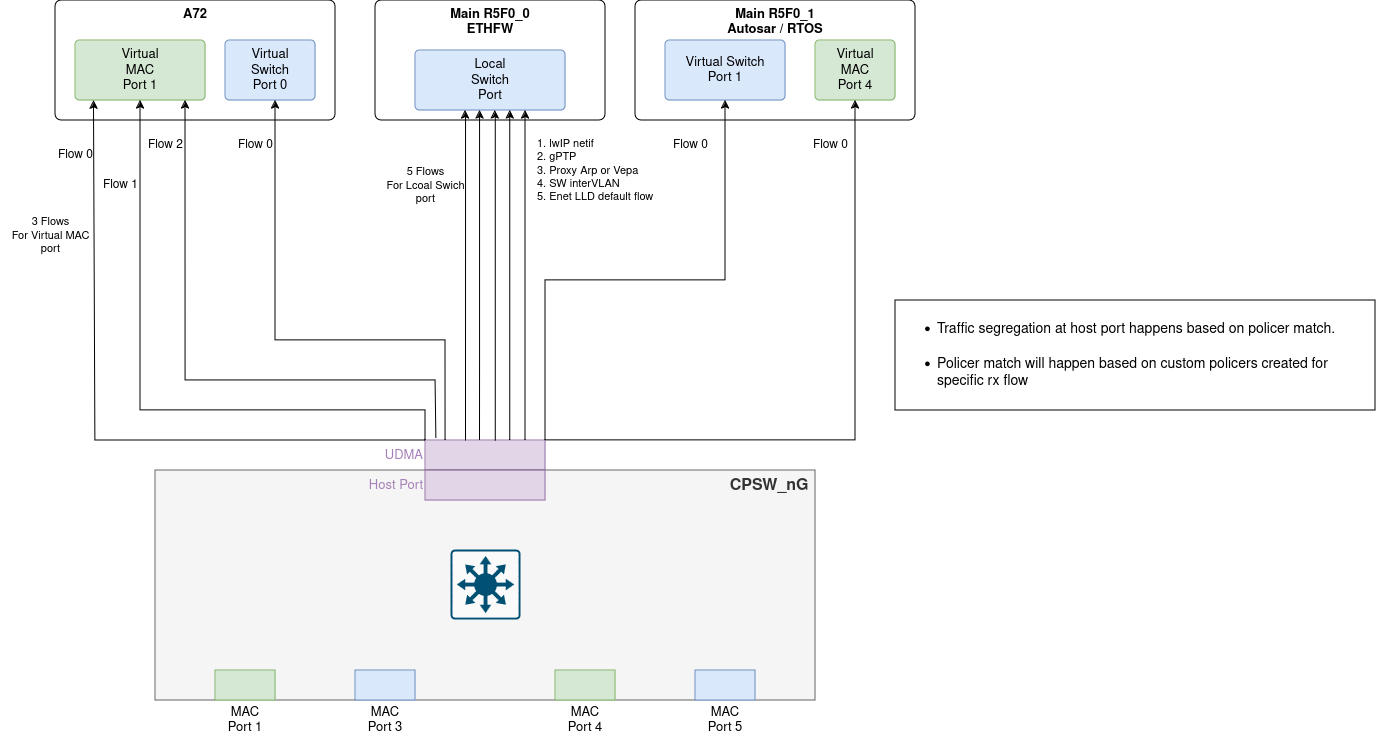
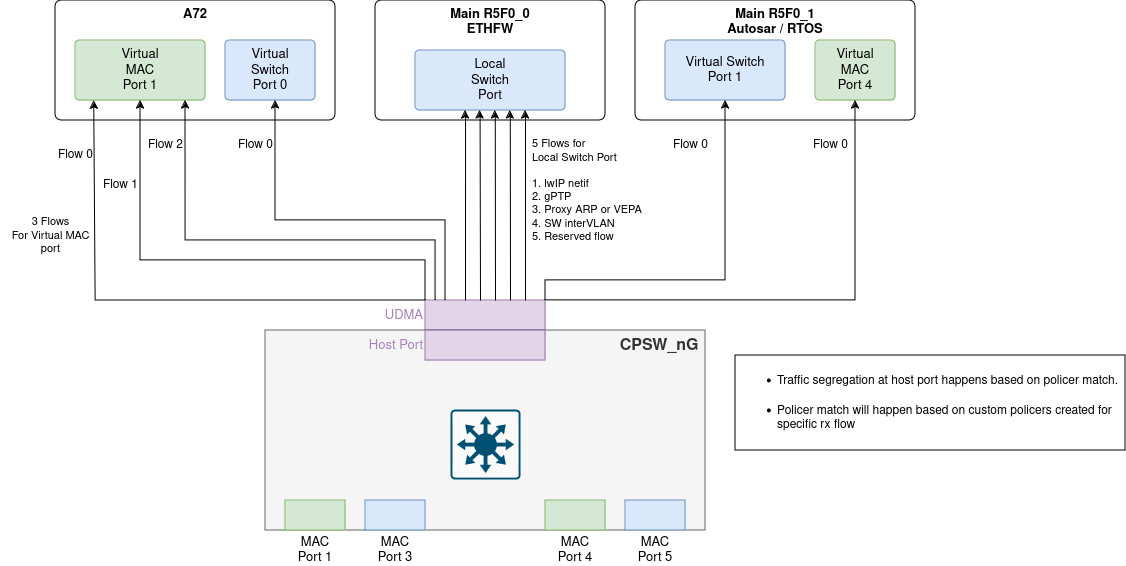
internal_docs: Images update for Tx and Rx QoS

diff --git a/internal_docs/doxygen/content_pages/common_user_guide/01001_user_guide.md b/internal_docs/doxygen/content_pages/common_user_guide/01001_user_guide.md
@@ -95,7 +95,7 @@ The utilization of these resources by Ethernet Firmware on Main R5F 0 Core 0 is 
 | Resource    | Count  | EthFw Usage (mcu2_0)
 |:------------|:------:|:-----------------------------------
 | TX channel  |   2    | <ul><li>lwIP netif (1)</li><li>gPTP (1)
-| RX flow     |   5    | <ul><li>lwIP netif (1)</li><li>gPTP (1)</li><li>Proxy ARP (1) or VEPA (1) (only for J784S4)</li><li>SW interVLAN (1)</li><li>Enet LLD default flow (1)</li></ul>
+| RX flow     |   5    | <ul><li>lwIP netif (1)</li><li>gPTP (1)</li><li>Proxy ARP (1) or VEPA (1) (only for J784S4)</li><li>SW interVLAN (1)</li><li>Reserved flow (1)</li></ul>
 | MAC address |   1    | <ul><li>lwIP netif (1)</li></ul>
 
 UDMA TX channels are a resource especially limited as there is only a total of 8 TX channels
